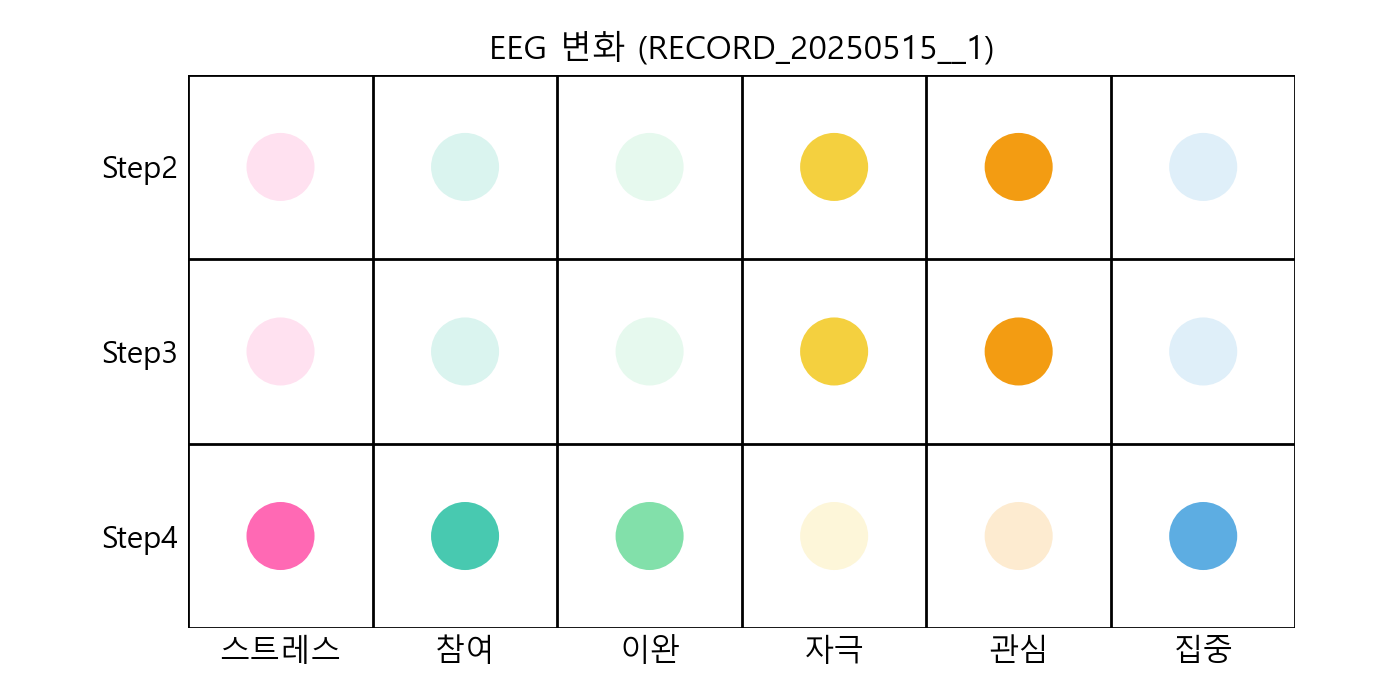
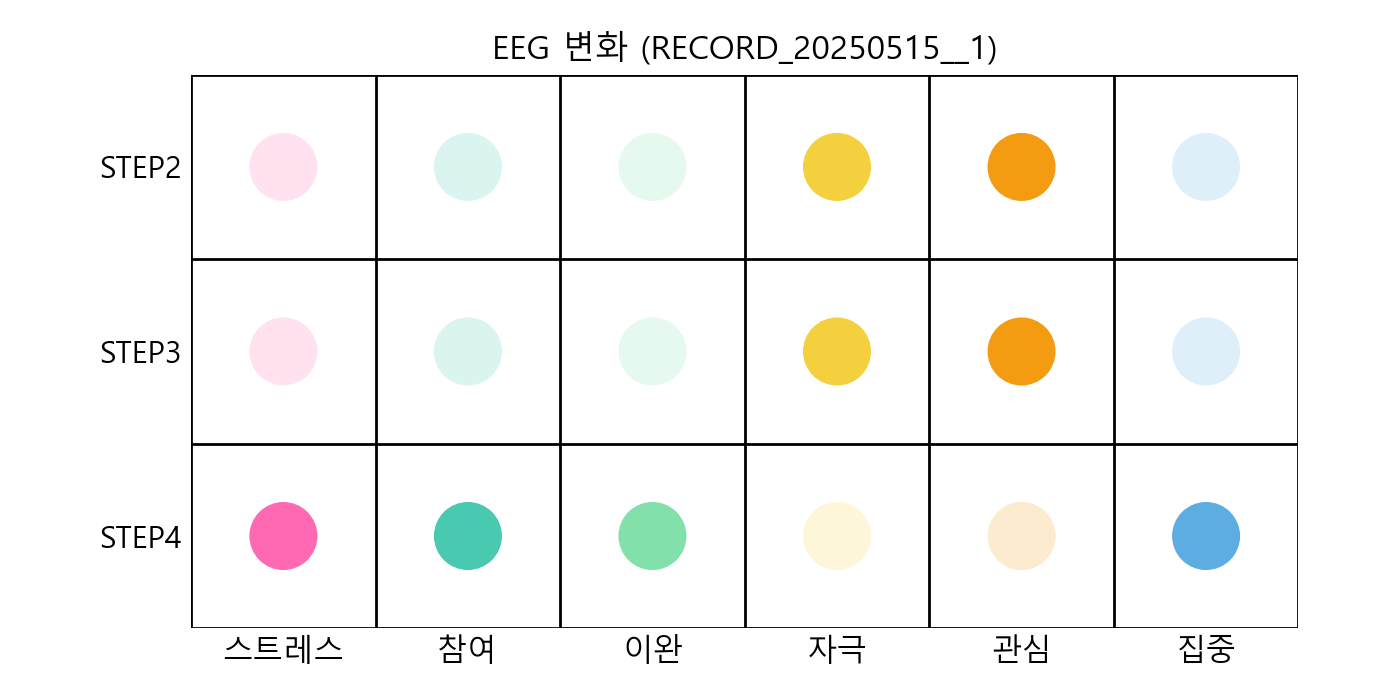
EEG_컬러 시각화 txt 파싱 부분 문제 수정

diff --git a/src/Emotion_EEG/EEG_Color/EEG_Table_Visualizer.py b/src/Emotion_EEG/EEG_Color/EEG_Table_Visualizer.py
@@ -32,9 +32,9 @@ OUTPUT_DIR = "output/Emotion_EEG/EEG_Tables"
 
 # 기준뇌파 열 제거: Step2, Step3, Step4만 사용
 STEP_CONFIG = [
-    ("step2", "STEP2", ["Step2"]),
-    ("step3", "STEP3", ["Step3"]),
-    ("step4", "STEP4", ["Step4"]),
+    ("step2", "STEP2", ["Step1"]),
+    ("step3", "STEP3", ["Step2"]),
+    ("step4", "STEP4", ["Step3"]),
 ]
 
 # 뇌파 지표
